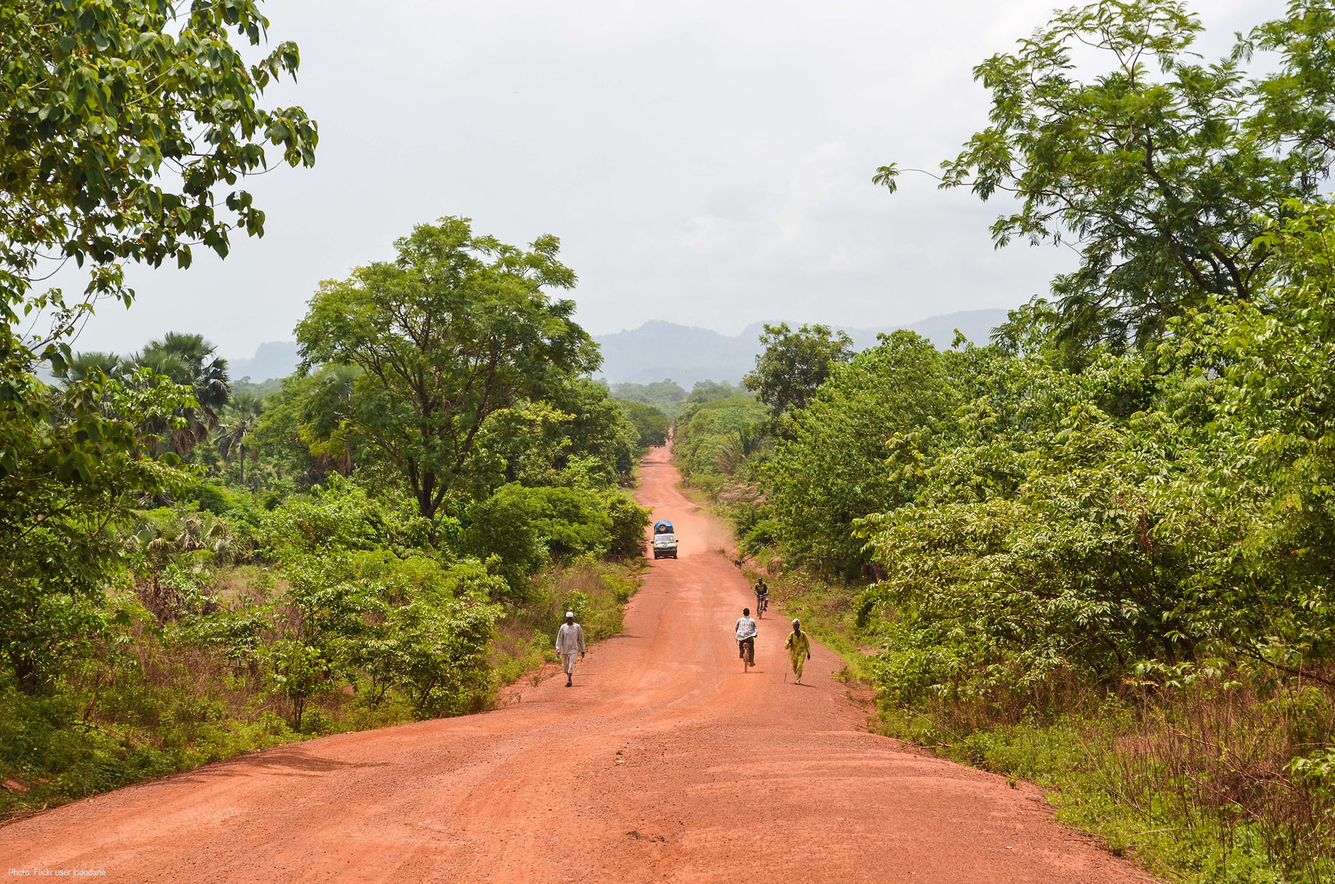
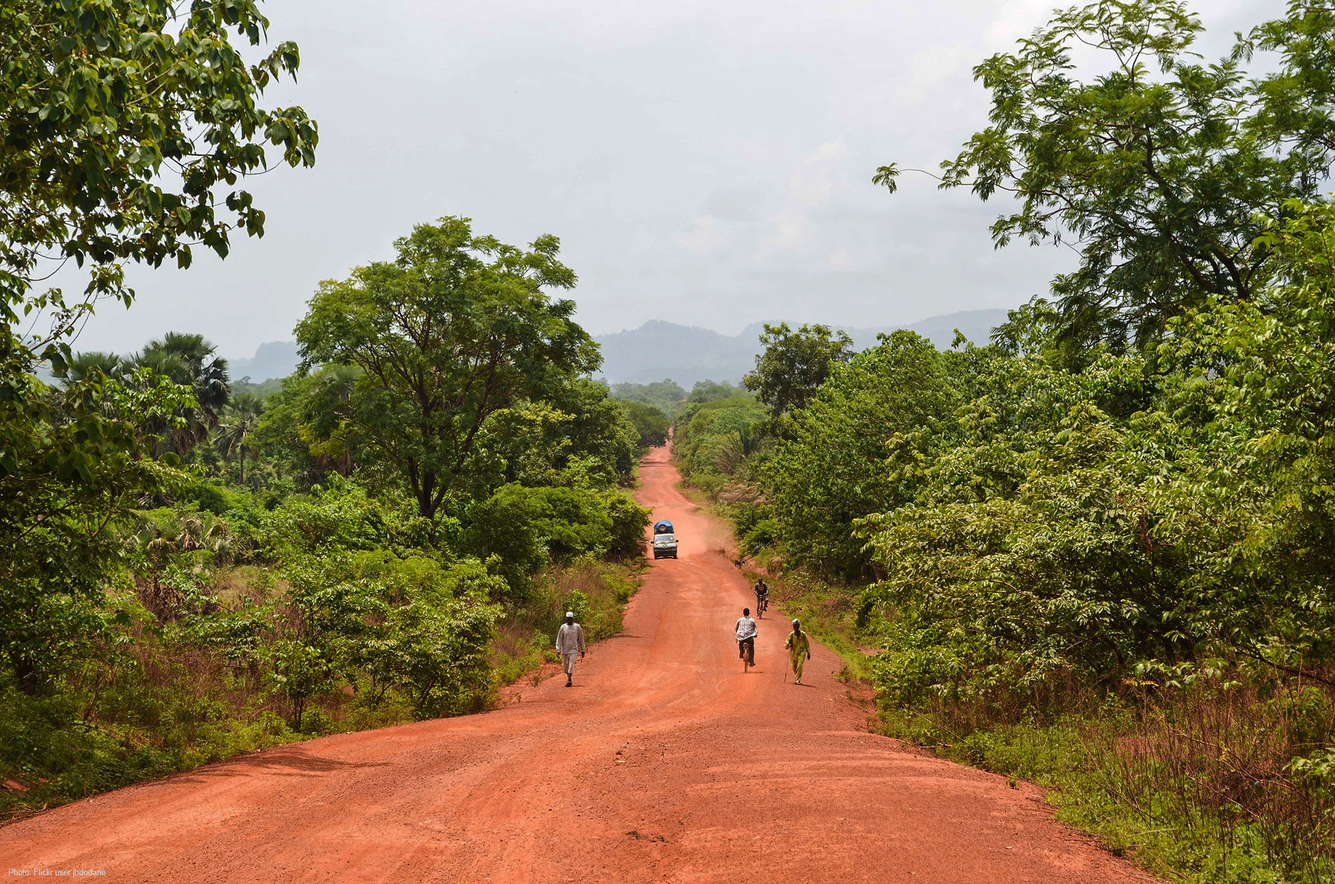
Updated footer; darkened background image

diff --git a/index.htm b/index.htm
@@ -148,9 +148,9 @@
       <!-- Footer -->
       <footer>
         <div class="container text-center">
-          <a class="footer-link" href="http://www.wri.org" id="TermsConditions">
+          <a class="footer-link" href="http://www.globalforestwatch.org/terms" id="TermsConditions">
             <!-- Insert footer link here-->
-          </a> | <a class="footer-link" href="http://www.wri.org" id="ContactUs">
+          </a> | <a class="footer-link" href="mailto:gfw@wri.org" id="ContactUs">
           <!-- Insert footer link here-->
         </a>
       </div>
